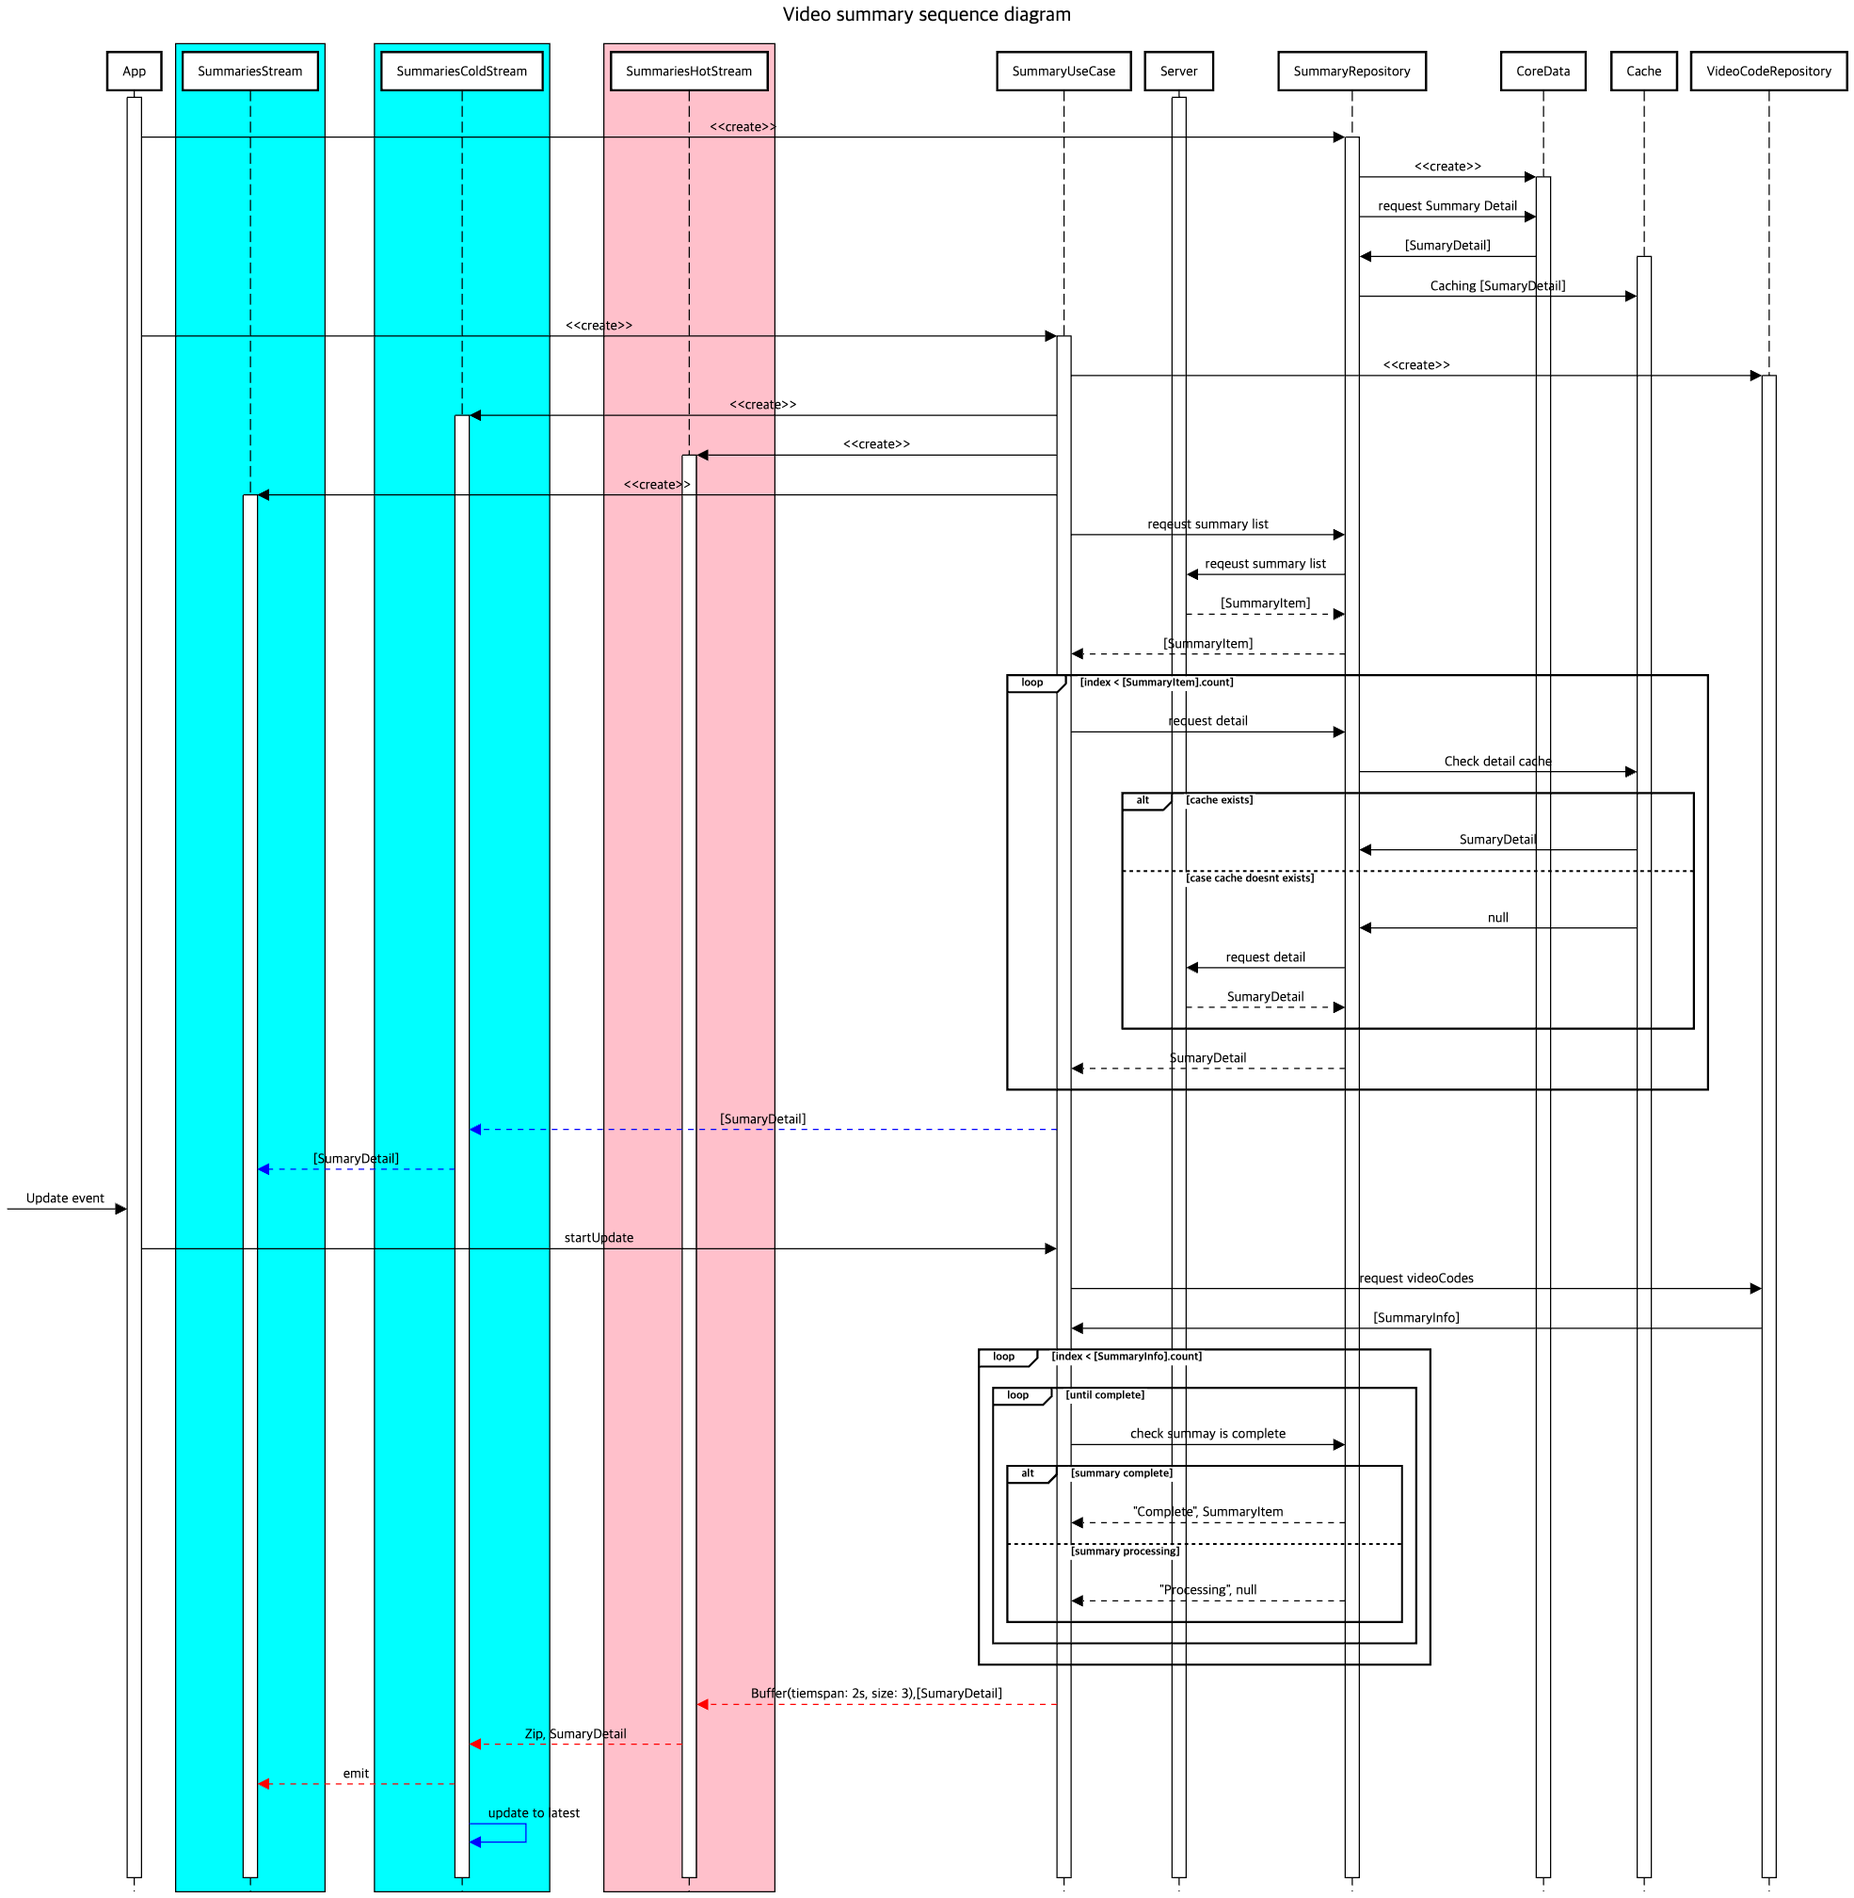
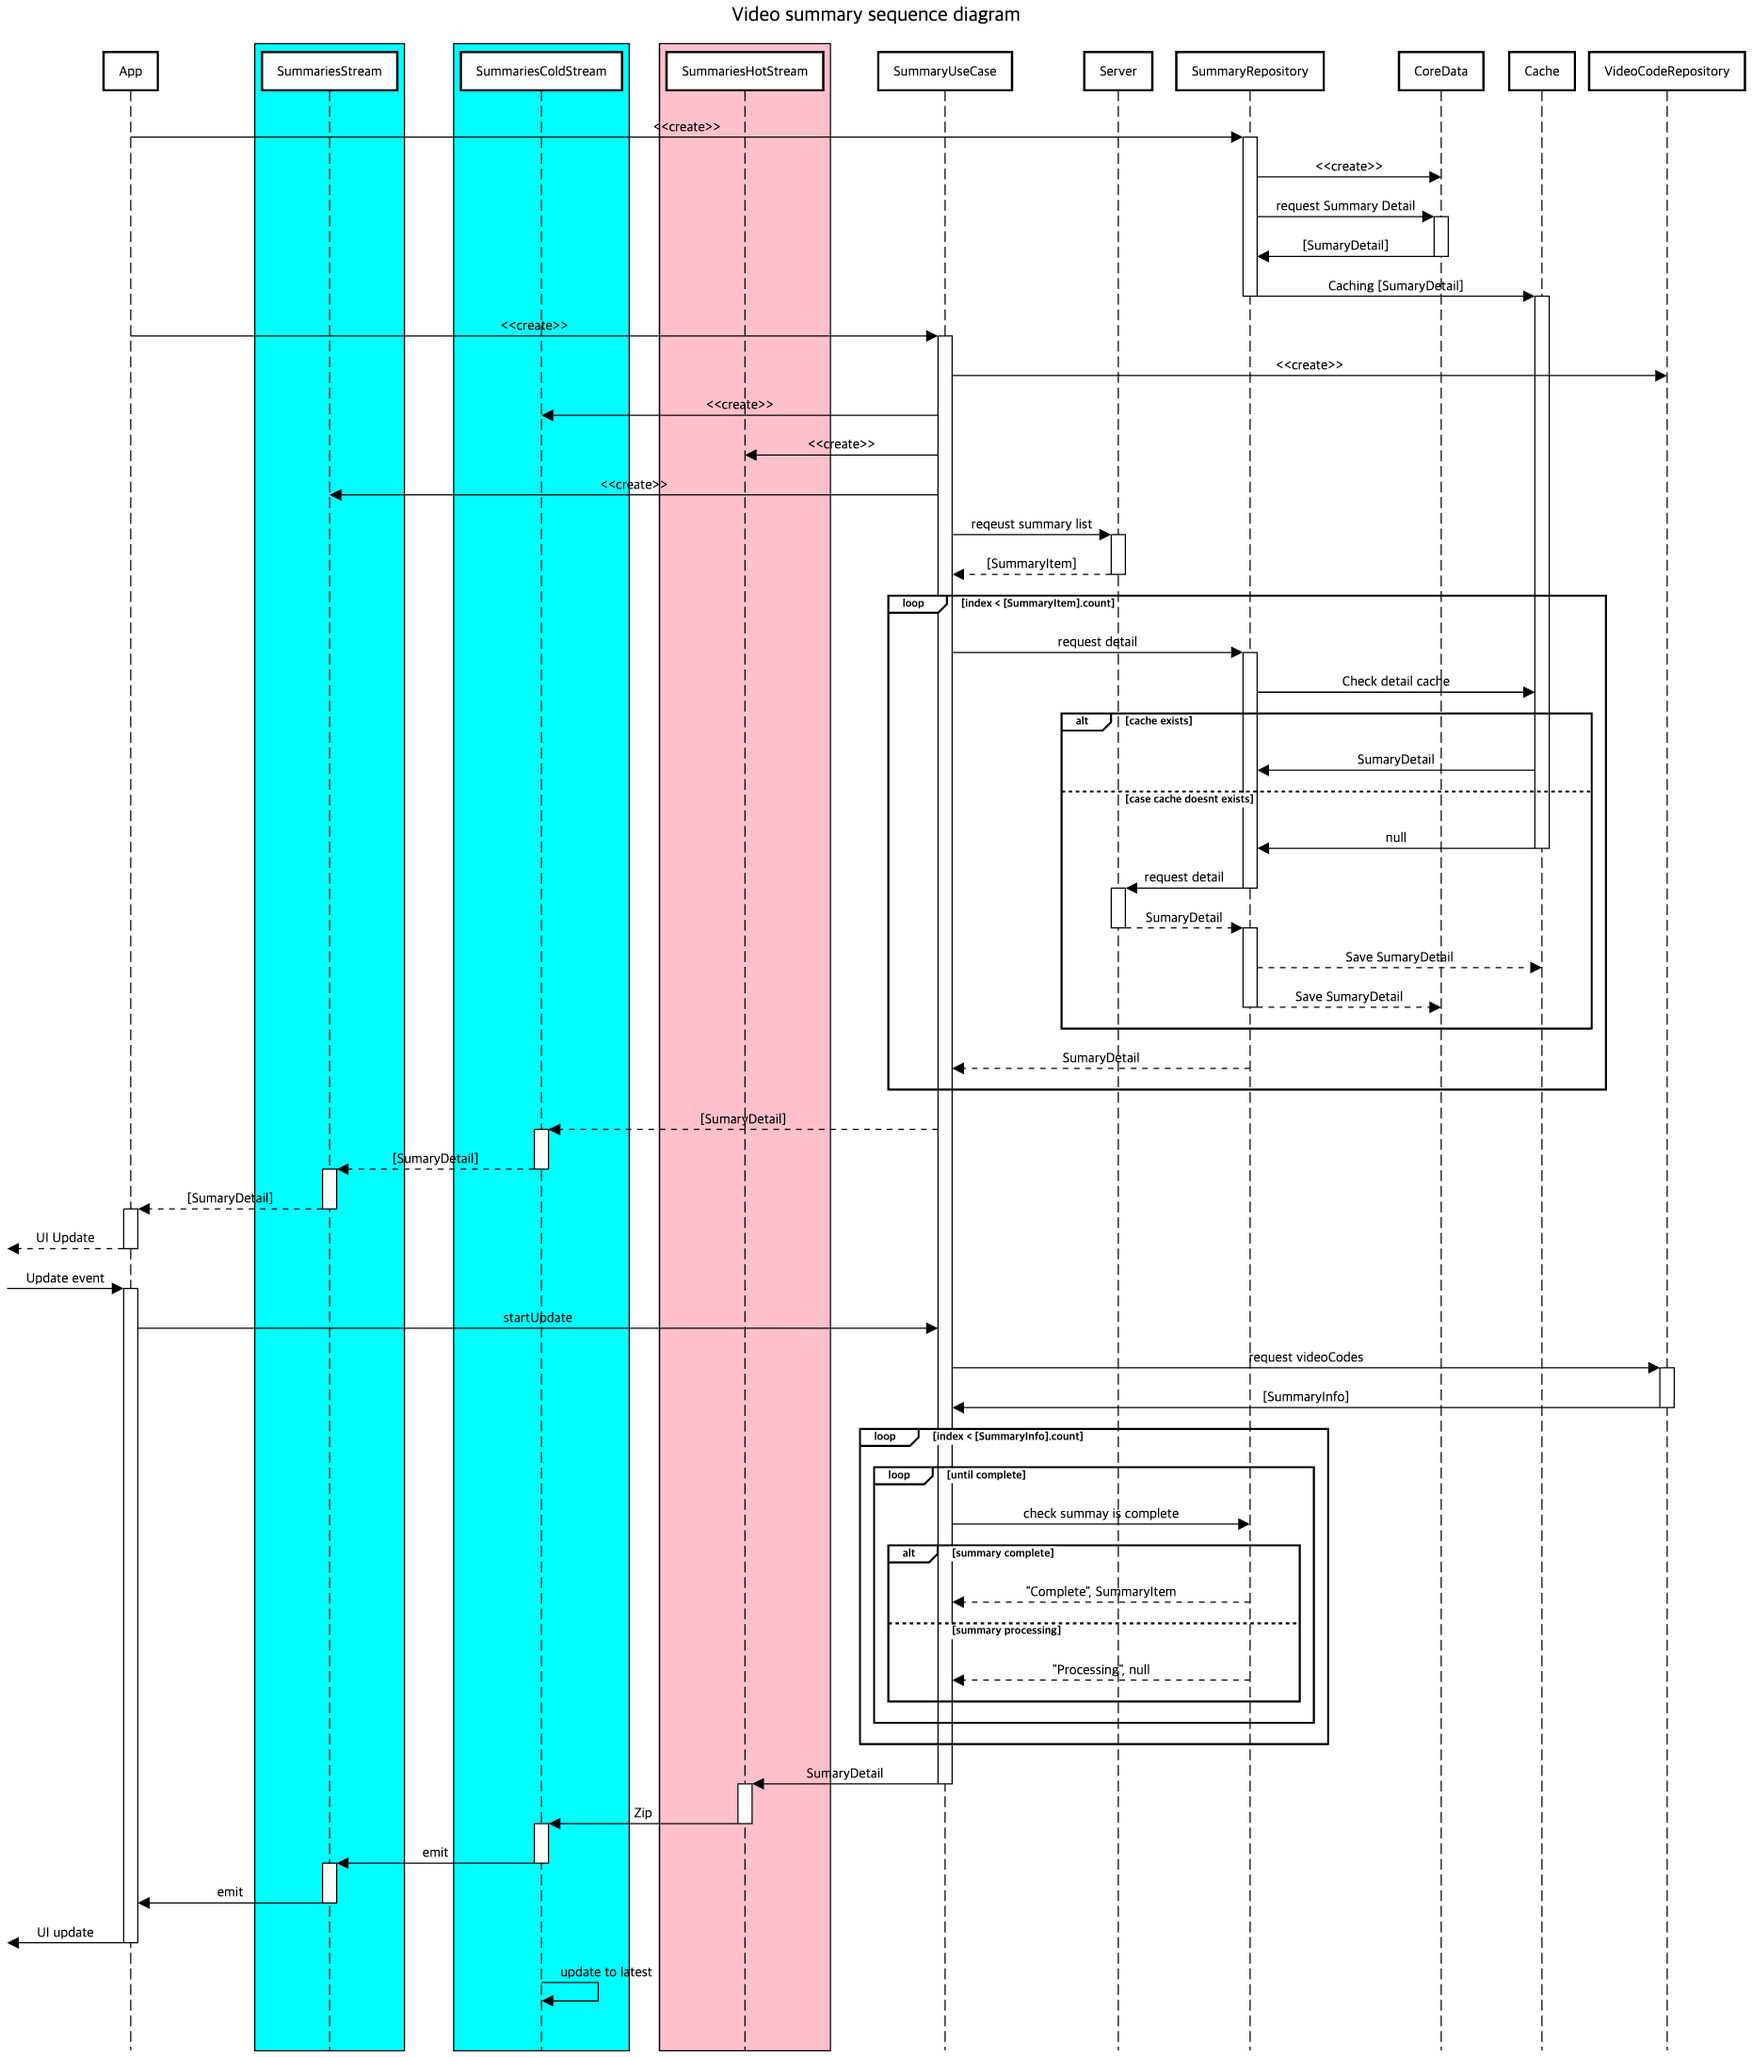
[CAP-003] 불러들인 요약정보 캐싱 및 로컬 저장소에 저장

Changed region(s): [[0.0, 0.0, 0.9973, 1.0], [0.5298, 0.1562, 0.5922, 0.1875]]

diff --git a/Modules/Data/Repository/Source/DefaultSummariesRepository.swift b/Modules/Data/Repository/Source/DefaultSummariesRepository.swift
@@ -10,17 +10,35 @@ import UseCase
 import Entity
 import DataSource
 import RxSwift
+import Util
 
 public class DefaultSummariesRepository: SummaryRepository {
     
-    let service: SummariesService
+    public struct Dependency {
+        let coreDataService: CoreDataService
+        let summaryService: SummaryService
+        public init(coreDataService: CoreDataService, summaryService: SummaryService) {
+            self.coreDataService = coreDataService
+            self.summaryService = summaryService
+        }
+    }
     
-    public init(service: SummariesService) {
-        self.service = service
+    // Caching
+    private let cacheStorage: ThreadSafeDictionary<Int, SummaryDetail> = .init()
+    
+    // Init
+    private let coreDataService: CoreDataService
+    private let summaryService: SummaryService
+    
+    public init(
+        dependency: Dependency
+    ) {
+        self.coreDataService = dependency.coreDataService
+        self.summaryService = dependency.summaryService
     }
     
     public func fetchAllSummaryItems() -> RxSwift.Single<[Entity.SummaryItem]> {
-        service
+        summaryService
             .request(api: .listAll, with: .withToken)
             .map(CAPResponse<VideoSummaryList>.self)
             .map { response in
@@ -29,7 +47,7 @@ public class DefaultSummariesRepository: SummaryRepository {
     }
     
     public func checkSummaryState(videoCode: String) -> RxSwift.Single<SummaryStatus> {
-        service
+        summaryService
             .request(api: .checkSummaryStatus(videoCode: videoCode), with: .withToken)
             .map(CAPResponse<SummaryStatus>.self)
             .map { response in
@@ -38,12 +56,64 @@ public class DefaultSummariesRepository: SummaryRepository {
     }
     
     public func fetchSummaryDetail(videoId: Int) -> RxSwift.Single<Entity.SummaryDetail> {
-        service
-            .request(api: .fetchSummaryDetail(videoId: videoId), with: .withToken)
-            .map(CAPResponse<SummaryDetail>.self)
-            .map { response in
-                response.data!
+        // 캐싱된 정보가 있는지 확인합니다.
+        let checkCaching = cacheStorage
+            .read(videoId)
+        
+        let cacheFound = checkCaching.compactMap { $0 }.asObservable()
+        let cacheNotFound = checkCaching.filter { $0 == nil }.asObservable()
+        
+        let fetchFromServer = cacheNotFound
+            .flatMap { [summaryService] _ in
+                summaryService
+                    .request(api: .fetchSummaryDetail(videoId: videoId), with: .withToken)
+                    .map(CAPResponse<SummaryDetail>.self)
+                    .map { response in
+                        response.data!
+                    }
             }
+            .map { [weak self] fetchedDetail in
+                
+                // 받아온 정보를 캐싱합니다.
+                self?.cacheStorage.write(videoId, value: fetchedDetail)
+                
+                // 받아온 정보를 코어데이터에 저장합니다.
+                self?.saveSummaryDetail(videoId: videoId, fetchedDetail)
+                
+                return fetchedDetail
+            }
+        
+        return Observable
+            .merge(cacheFound, fetchFromServer)
+            .asSingle()
+    }
+    
+    private func saveSummaryDetail(videoId: Int, _ detail: SummaryDetail) {
+        coreDataService.container.performBackgroundTask({ [detail] context in
+            let entity = SummaryDetailObject(context: context)
+            entity.videoId = Int32(videoId)
+            entity.title = detail.title
+            entity.content = detail.description
+            entity.keywords = detail.keywords.joined(separator: ",")
+            entity.url = detail.url.absoluteString
+            entity.summary = detail.summary
+            entity.address = detail.address
+            entity.createdAt = detail.createdAt
+            entity.platform = detail.platform.rawValue
+            entity.mainCategory = detail.mainCategory.rawValue
+            entity.mainCategoryIndex = Int32(detail.mainCategoryIndex)
+            entity.subCategory = detail.subCategory
+            entity.subCategoryId = Int32(detail.subCategoryId)
+            entity.latitude = detail.latitude
+            entity.longitude = detail.longitude
+            entity.videoCode = detail.videoCode
+            
+            do {
+                try context.save()
+            } catch {
+                printIfDebug("‼ 비디오 요약정보 코어데이터 저장실패: \(detail)")
+            }
+        })
     }
 }
 

diff --git a/Modules/Domain/UseCase/Source/UseCase/OnBoardingCheckUseCase.swift b/Modules/Domain/UseCase/Source/UseCase/OnBoardingCheckUseCase.swift
@@ -21,11 +21,11 @@ public protocol OnBoardingCheckUseCase: UseCaseBase {
 public class DefaultOnBoardingCheckUseCase: OnBoardingCheckUseCase {
     
     let userConfigRepository: UserConfigRepository
-    let summariesRepository: SummariesRepository
+    let summaryRepository: SummaryRepository
     
-    public init(userConfigRepository: UserConfigRepository, summariesRepository: SummariesRepository) {
+    public init(userConfigRepository: UserConfigRepository, summaryRepository: SummaryRepository) {
         self.userConfigRepository = userConfigRepository
-        self.summariesRepository = summariesRepository
+        self.summaryRepository = summaryRepository
     }
     
     public func checkingSelectedCategoriesExists() -> Bool {
@@ -34,7 +34,7 @@ public class DefaultOnBoardingCheckUseCase: OnBoardingCheckUseCase {
     }
     
     public func checkingSummariesExists() -> RxSwift.Single<Result<Bool, Entity.SummariesError>> {
-        convert(task: summariesRepository
+        convert(task: summaryRepository
             .getAllVideoList()
             .map { summaries in
                 return !summaries.isEmpty

diff --git a/Modules/Domain/UseCase/Source/UseCase/SummaryUseCase.swift b/Modules/Domain/UseCase/Source/UseCase/SummaryUseCase.swift
@@ -9,7 +9,7 @@ import Foundation
 import Entity
 import RxSwift
 
-public protocol SummaryUseCase {
+public protocol SummaryUseCase: UseCaseBase {
     
     /// 전체 비디오 상세정보를 제공받을 수 있는 콜드 스트림입니다.
     var summariesStream: BehaviorSubject<[SummaryDetail]> { get }
@@ -19,4 +19,17 @@ public protocol SummaryUseCase {
     
     /// 로컬로부터 비디오 코드를 가져오고 해당 코드로부터 상세정보를 가져옵니다, 가져온 정보는 핫스트림으로 방출됩니다.
     func updateSummaryStream()
+}
+
+public class DefaultSummaryUseCase: SummaryUseCase {
+    
+    public var summariesStream: RxSwift.BehaviorSubject<[Entity.SummaryDetail]> = .init(value: [])
+    
+    public func fetchAllSummaries() -> RxSwift.Single<Result<Void, Entity.SummariesError>> {
+        <#code#>
+    }
+    
+    public func updateSummaryStream() {
+        <#code#>
+    }
 }

diff --git a/Modules/Util/Source/TreadSafeDictionary/ThreadSafeDictionary.swift b/Modules/Util/Source/TreadSafeDictionary/ThreadSafeDictionary.swift
@@ -1,0 +1,32 @@
+//
+//  ThreadSafeDictionary.swift
+//  Util
+//
+//  Created by choijunios on 8/20/24.
+//
+
+import Foundation
+import RxSwift
+
+/// Thread safe를 지원하는 딕셔너리 입니다.
+open class ThreadSafeDictionary<Key: Hashable, Value> {
+    private var dict: [Key: Value] = [:]
+    private let queue = DispatchQueue.global(qos: .userInteractive)
+    
+    public init() { }
+    
+    public func read(_ key: Key) -> Single<Value?> {
+        Single<Value?>.create { [queue] single in
+            queue.sync { [weak self, single] in
+                single(.success(self?.dict[key]))
+            }
+            return Disposables.create { }
+        }
+    }
+    
+    public func write(_ key: Key, value: Value) {
+        queue.sync { [weak self] in
+            self?.dict[key] = value
+        }
+    }
+}

diff --git a/Modules/Domain/Entity/Source/Summaries/SummaryDetail.swift b/Modules/Domain/Entity/Source/Summaries/SummaryDetail.swift
@@ -21,7 +21,7 @@ public struct SummaryDetail: Decodable {
     public let url: URL
     public let summary: String
     public let address: String
-    public let createdAt: Date
+    public let createdAt: String
     public let platform: ShortFormPlatform
     public let mainCategory: MainCategory
     public let mainCategoryIndex: Int

diff --git a/Modules/Data/DataSource/Source/Network/Services/SummaryService.swift b/Modules/Data/DataSource/Source/Network/Services/SummaryService.swift
@@ -1,0 +1,13 @@
+//
+//  SummaryService.swift
+//  DataSource
+//
+//  Created by choijunios on 8/13/24.
+//
+
+import Foundation
+
+/// SummariesService입니다.
+public typealias SummaryService = BaseNetworkService<SummariesAPI>
+
+public class DefaultSummaryService: SummaryService { }
